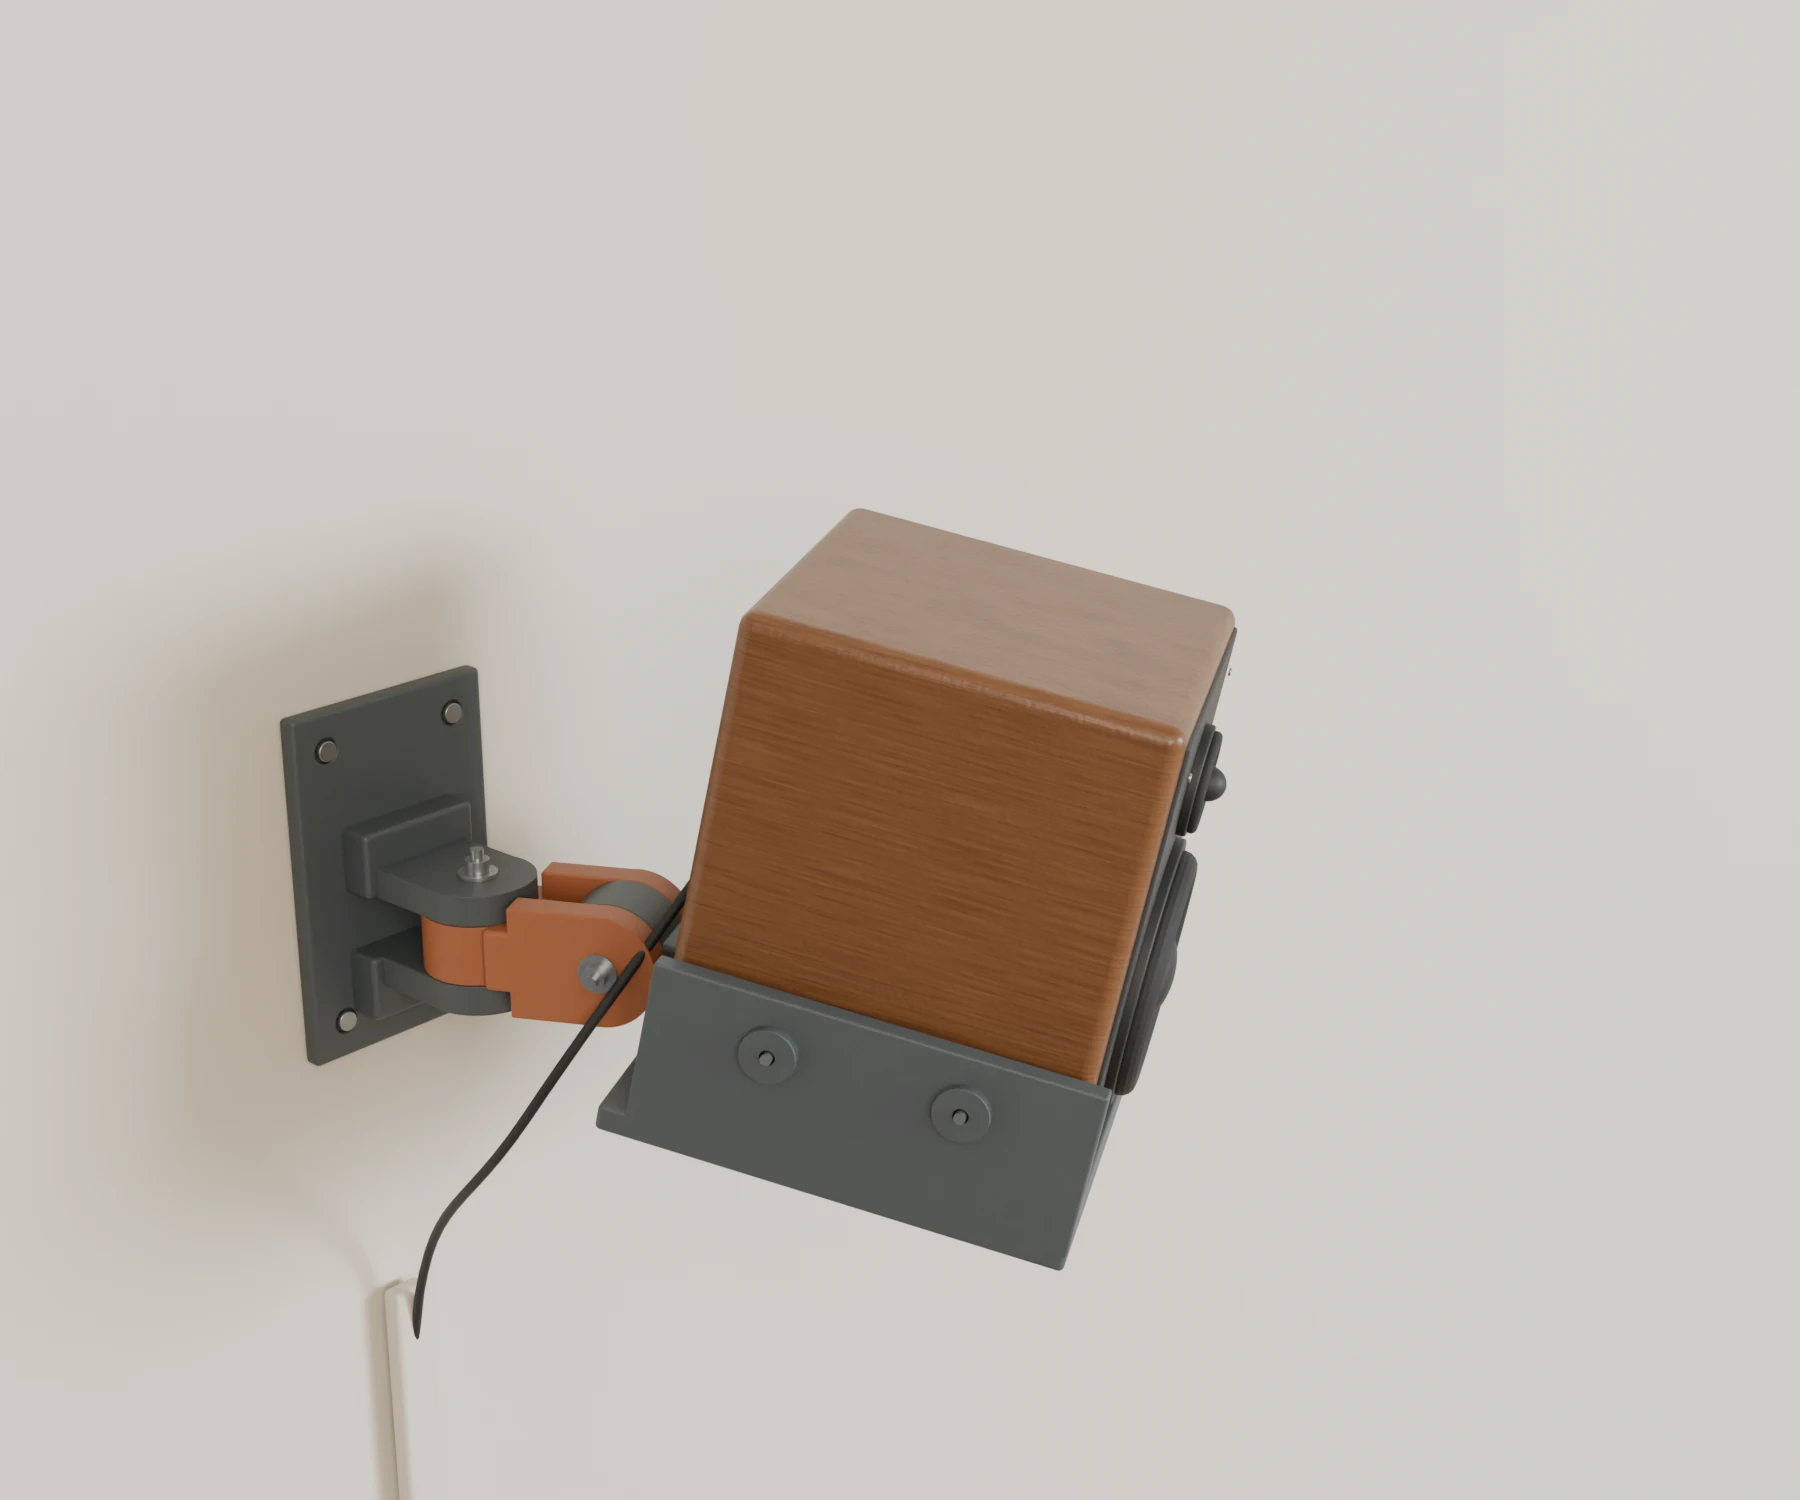
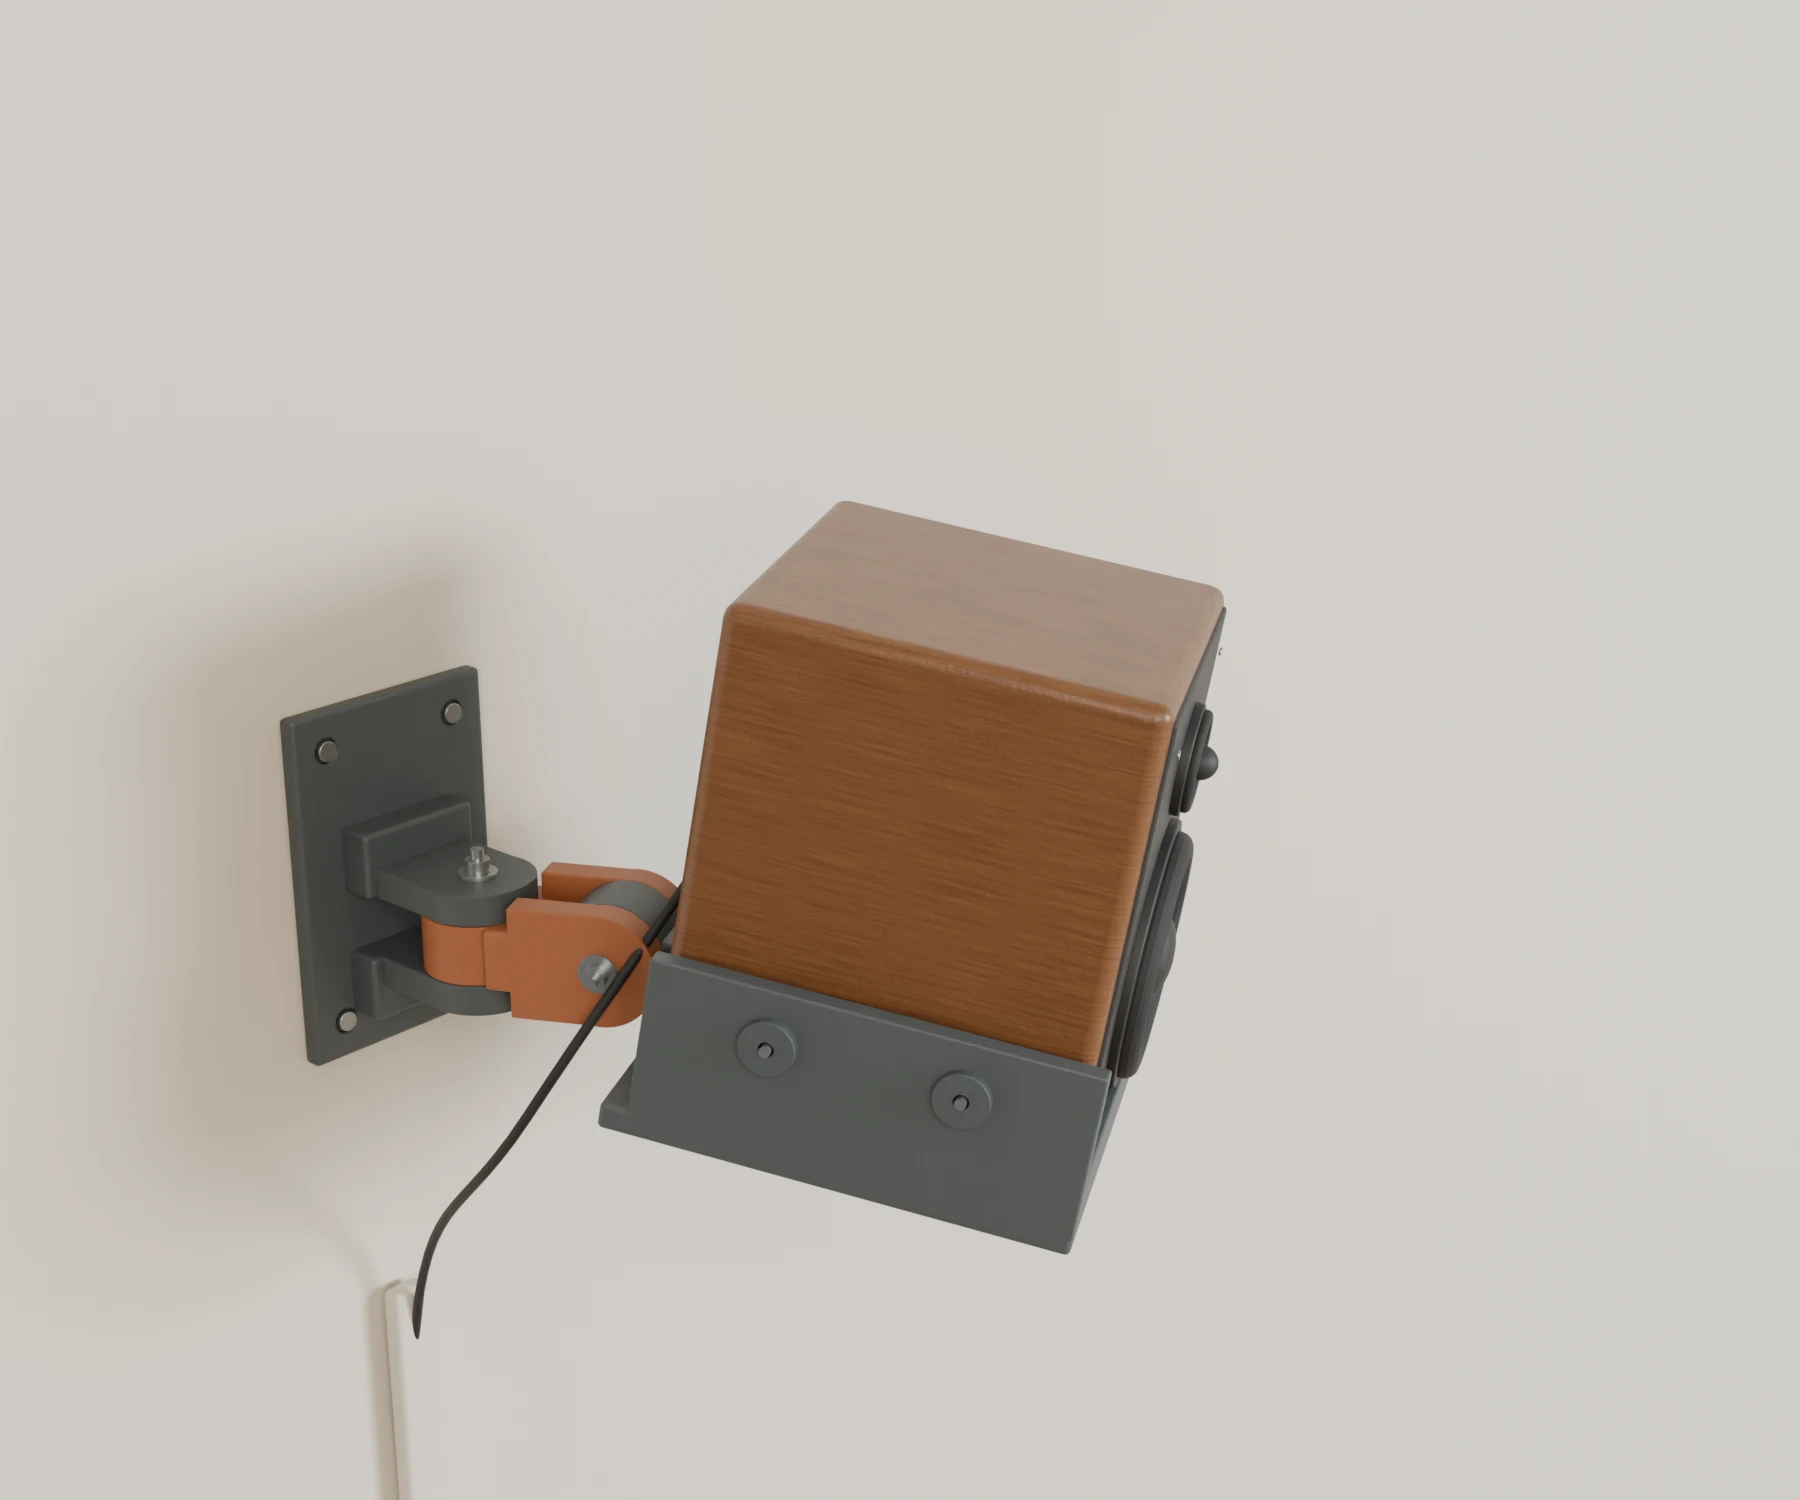
Show tilt-only indexing and animated speaker motion

diff --git a/src/content/projects/surround-speaker-mount.md b/src/content/projects/surround-speaker-mount.md
@@ -1,7 +1,7 @@
 ---
 title: 'Surround speaker mount: compact pan and tilt'
 summary: >-
-  A three-part printable speaker wall mount with adjustable pan and tilt, parametric FreeCAD models, and an interactive Blender assembly.
+  A three-part printable speaker wall mount with continuous pan and tilt indexed in 5° steps, parametric FreeCAD models, and an interactive Blender assembly.
 date: 2026-09-09
 tags: ['3D CAD', 'FreeCAD', 'Blender', '3D printing', 'Python', 'Audio']
 repo: 'https://github.com/MadsRudolph/surround-speaker-mount'
@@ -17,7 +17,7 @@ Personal project. I designed a compact wall mount for surround speakers, with se
 
 <figure>
   <img src="/media/surround-speaker-mount/assembly.webp" alt="Rendered speaker mount showing its wall plate, two pivot joints and four cradle clamp screws" width="1200" height="1000" />
-  <figcaption>The compact second revision. This is a design render; printing and physical load testing are still pending.</figcaption>
+  <figcaption>The compact mount with the third revision’s indexed tilt interface. This is a design render; printing and physical load testing are still pending.</figcaption>
 </figure>
 
 ## How this will look
@@ -31,7 +31,15 @@ A living-room surround setup with the TV and front speakers ahead of the couch, 
 
 <figure>
   <a href="/media/surround-speaker-mount/mount-in-use.webp"><img loading="lazy" src="/media/surround-speaker-mount/mount-in-use.webp" alt="Close-up Blender render of a walnut speaker held in the wall-mounted cradle, showing the pan and tilt joints, clamp screws and cable loop" width="1800" height="1500" /></a>
-  <figcaption>The mount in use, with 28° pan and 12° downward tilt. The speakers and interior are illustrative; physical fit and load testing remain pending.</figcaption>
+  <figcaption>The mount in use, with 28° pan and 10° downward tilt. The speakers and interior are illustrative; physical fit and load testing remain pending.</figcaption>
+</figure>
+
+<figure>
+  <picture>
+    <source media="(prefers-reduced-motion: reduce)" srcset="/media/surround-speaker-mount/mount-motion-poster.webp" />
+    <img loading="lazy" src="/media/surround-speaker-mount/mount-motion.gif" alt="Looping Blender animation showing the mounted speaker and cradle panning smoothly while the tilt joint disengages, moves in 5-degree steps and re-engages with the wall plate fixed" width="720" height="600" />
+  </picture>
+  <figcaption>The speaker pans smoothly through ±60°. The tilt joint disengages, moves to the next 5° setting and re-seats, from level to 30° downward. A six-second mechanism preview; physical adjustment requires supporting the speaker and loosening the bolt. <a href="/media/surround-speaker-mount/mount-motion.gif" download>Download GIF</a>.</figcaption>
 </figure>
 
 [Explore the Blender scene and render script →](https://github.com/MadsRudolph/surround-speaker-mount/tree/main/showcase)
@@ -41,6 +49,19 @@ A living-room surround setup with the TV and front speakers ahead of the couch, 
 The default cabinet is **150 × 150 × 180 mm**, with a designed range of **±60° pan and 30° downward tilt**. A wall plate carries the vertical pan joint; a short connecting arm supports the horizontal tilt joint and cradle. Both use M5 bolts, while four M4 swivel-pressure screws retain the cabinet against padding.
 
 FreeCAD generates the solid models from spreadsheet-linked parameters. Python scripts build the geometry, export STEP and print-oriented STL files, and check clearances. A separate Blender assembly provides renders and interactive posing. FreeCAD also has live mouse controls for aiming the assembly.
+
+## Positive engagement for the tilt joint
+
+The up/down pivot now has **72 mating radial teeth for 5° increments**. The pan pivot stays smooth and continuously adjustable. A recessed ring in the arm mates with a raised ring on the cradle, so tilt position is held by tooth engagement as well as the bolt keeping the faces together.
+
+<figure>
+  <a href="/media/surround-speaker-mount/tilt-teeth.webp"><img loading="lazy" src="/media/surround-speaker-mount/tilt-teeth.webp" alt="Blender render of two fit-test discs showing the recessed arm tooth profile and the matching raised cradle tooth profile" width="1400" height="900" /></a>
+  <figcaption>The printable fit-test discs carry the same 72-tooth profiles used on the tilt pivot. Pan retains its smooth faces.</figcaption>
+</figure>
+
+Only one tilt face is toothed. With the bolt loosened, the cradle can slide toward the opposite smooth cheek to disengage, turn to the next setting and seat again. The nominal release travel from seated is **0.6 mm**, with **0.15 mm tooth-tip clearance** when released.
+
+CAD checks cover all seven tilt settings, confirm that half-step positions interfere when seated, and check 61 released positions. Small [printable fit coupons](https://github.com/MadsRudolph/surround-speaker-mount/tree/main/print/fit-coupons) use the same tooth profiles. Printed fit, tooth strength, wear and any improvement in rigidity still need physical testing.
 
 ## What needed redesigning
 
